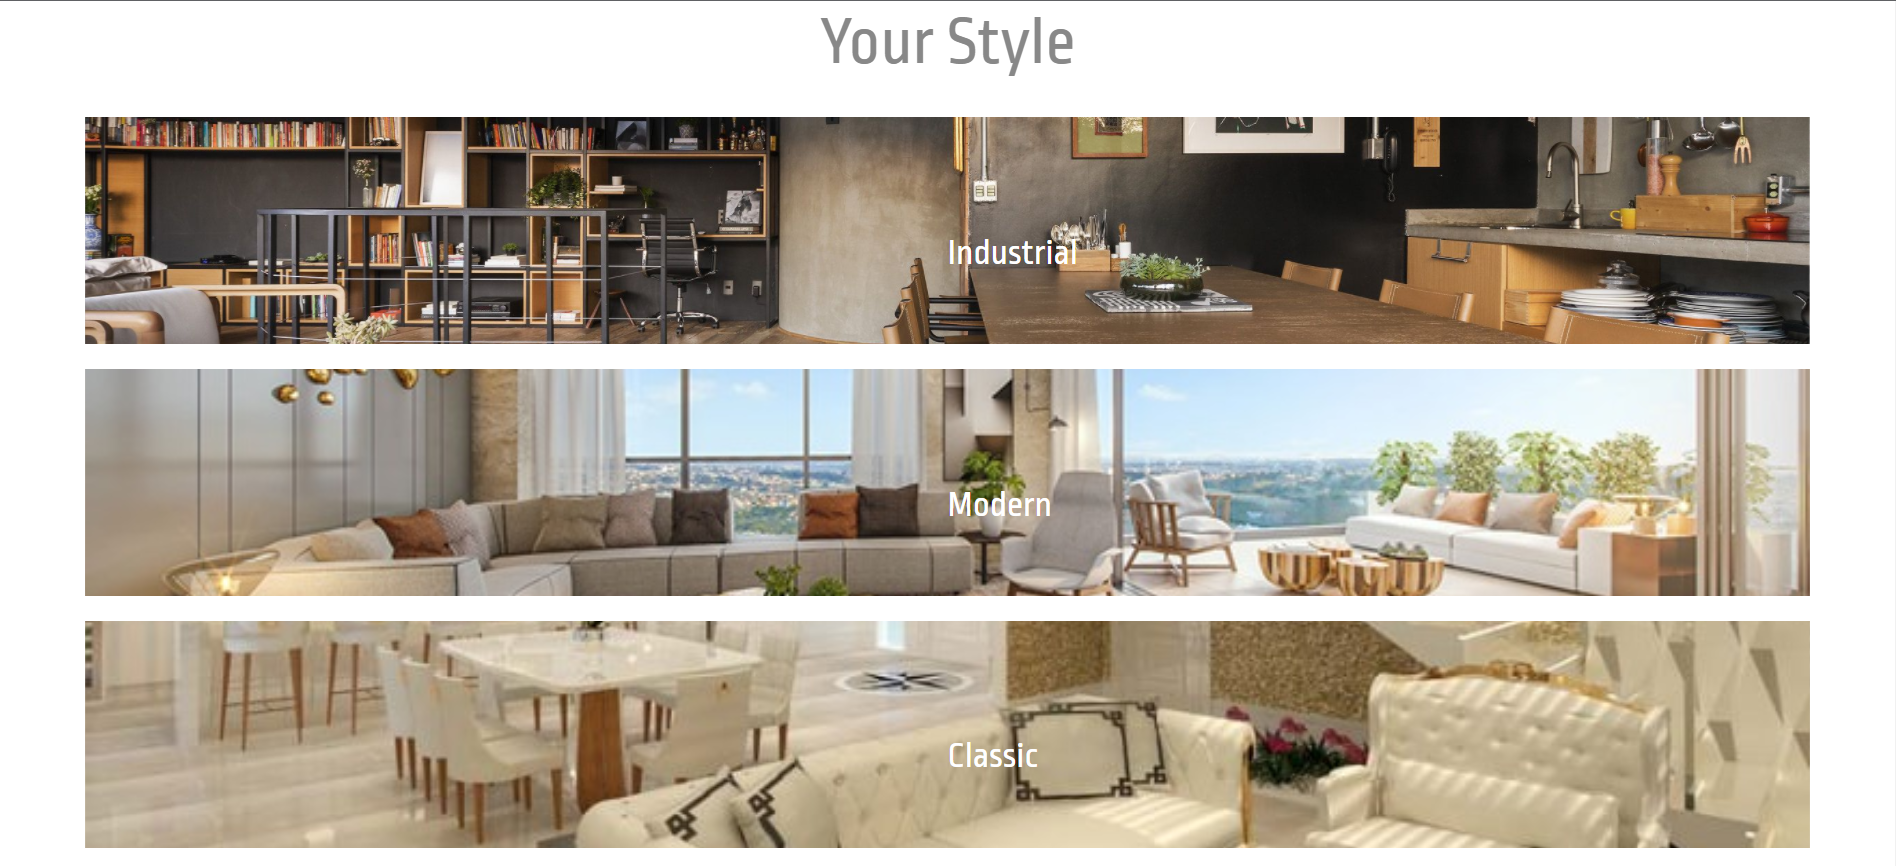
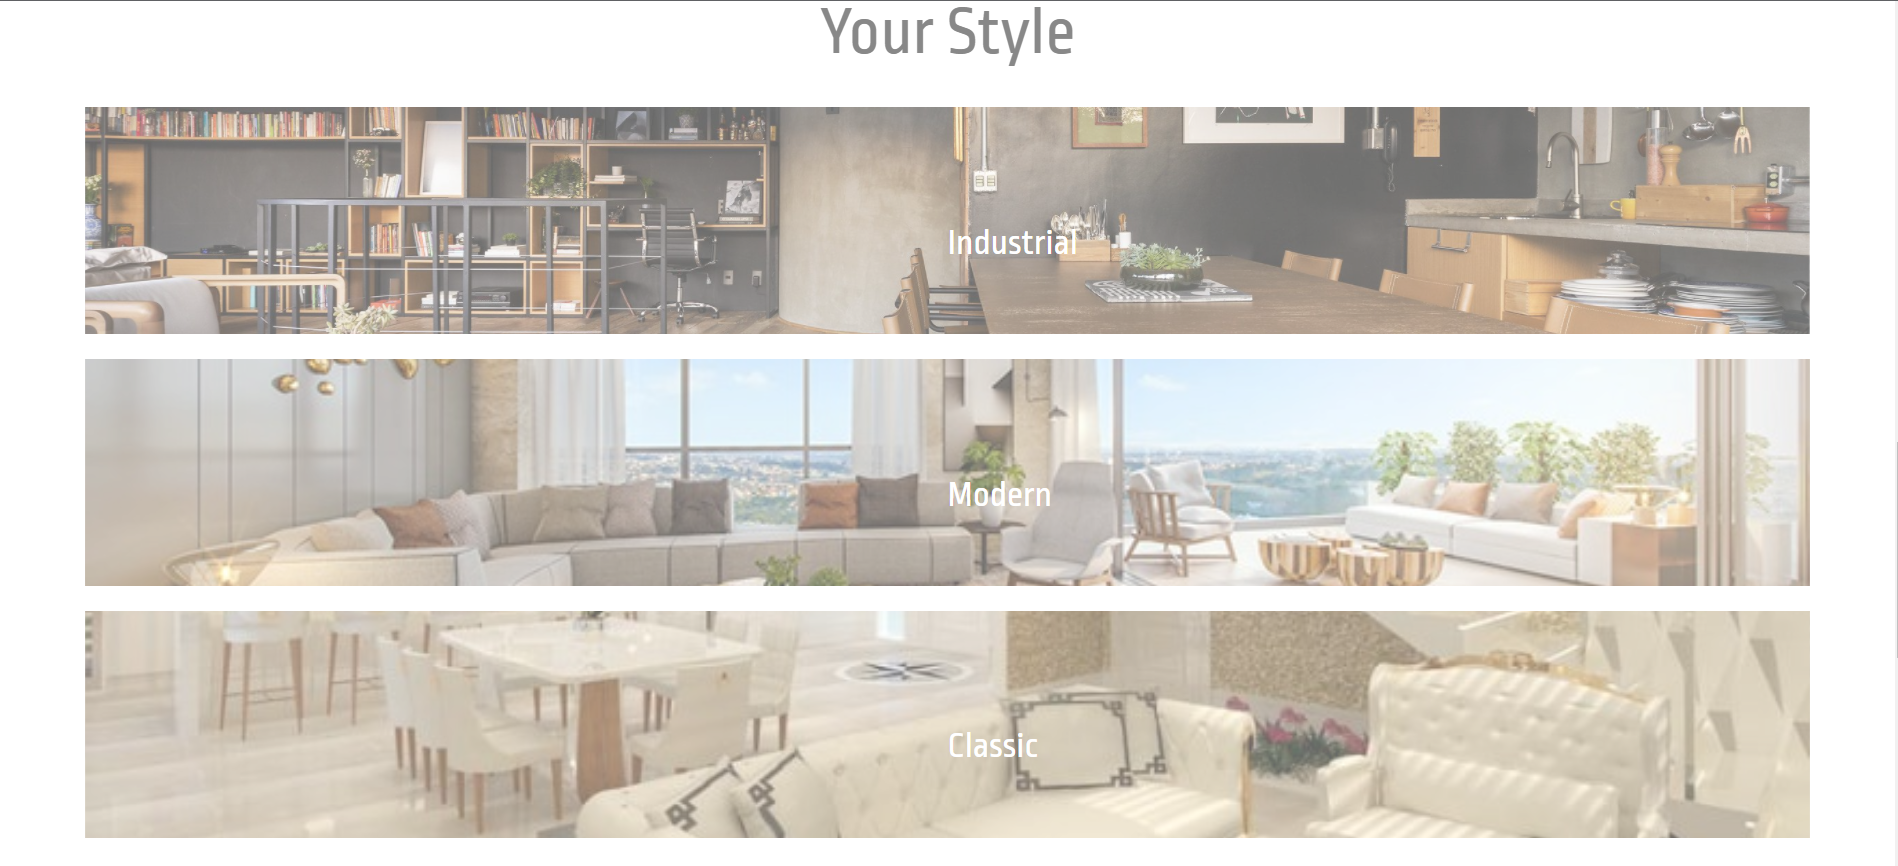
Versão Final Lovt

diff --git a/style.css b/style.css
@@ -26,8 +26,13 @@ h1{
 }
 
 .posLogo {
+  font-size: 1.2rem;
   margin-top: 0.7%;
   margin-left: 0.4%;
+}
+
+.loft {
+  margin-top: 0;
 }
 
 h2 {
@@ -40,6 +45,7 @@ h2 {
 
 .image0 {
   margin-left: 86%;
+  cursor: pointer;
 }
 
 .image1 {
@@ -47,6 +53,48 @@ h2 {
   margin-top: 2%;
   margin-bottom: 4%;
   width: 91%;
+  position: relative;
+}
+
+.EllipseLeft {
+  position: absolute;
+  color: white;
+  text-align: center;
+  width: 6.2%;
+  margin-top: -26.8%;
+  margin-left: 5.9%;
+  cursor: pointer;
+}
+
+.EllipseRight {
+  position: absolute;
+  color: white;
+  text-align: center;
+  width: 6.2%;
+  margin-top: -26.8%;
+  margin-left: 87%;
+  cursor: pointer;
+}
+
+.LeftArrow img {
+  position: absolute;
+  color: white;
+  text-align: center;
+  width: 1.7%;
+  margin-top: -25.5%;
+  margin-left: 7.7%;
+  cursor: pointer;
+
+}
+
+.RightArrow img {
+  position: absolute;
+  color: white;
+  text-align: center;
+  width: 1.7%;
+  margin-top: -25.5%;
+  margin-left: 89%;
+  cursor: pointer;
 }
 
 .caixas {
@@ -87,7 +135,7 @@ h2 {
   height: 20%;
   font-size: 190% ;
   margin-right: 10%;
-  border-radius: 20.5px;
+  border-radius: 20.5vh;
 }
 
 .texto3 {
@@ -131,7 +179,7 @@ h2 {
   height: 20%;
   font-size: 190% ;
   margin-right: 10%;
-  border-radius: 20.5px;
+  border-radius: 20.5vh;
 }
 
 .texto6 {
@@ -143,7 +191,7 @@ h2 {
 }
 
 .texto7 {
-  margin-top: 5%;
+  margin-top: 9%;
   color: #888888;
   text-align: center;
   font-size: 280%;
@@ -170,11 +218,23 @@ h2 {
 }
 
 .texto8 {
-  font-size: 150%;
+  font-size: 300%;
   margin-right: 10%;
   position: absolute;
   top: 50%;
-  left: 50%;
+  left: 43%;
+}
+
+.industrialImage {
+  filter: opacity(60%);
+}
+
+.modernImage {
+  filter: opacity(60%);
+}
+
+.classicImage {
+  filter: opacity(60%);
 }
 
 .container2 {
@@ -191,11 +251,11 @@ h2 {
 }
 
 .texto9 {
-  font-size: 150%;
+  font-size: 300%;
   margin-right: 10%;
   position: absolute;
   top: 50%;
-  left: 50%;
+  left: 45%;
 }
 
 .container3 {
@@ -212,11 +272,11 @@ h2 {
 }
 
 .texto10 {
-  font-size: 150%;
+  font-size: 300%;
   margin-right: 10%;
   position: absolute;
   top: 50%;
-  left: 50%;
+  left: 46%;
 }
 
 .caixa3 {
@@ -263,17 +323,26 @@ h2 {
   margin-top: 12%;
 }
 
+.socialMedias img {
+  width: 6vh;
+}
+
 .socialIcons {
   display: flex;
 }
 
 .InstagramIcon {
-  margin-right: 17%;
+  margin-top: 4%;
+  margin-right: 9.5%;
 }
 
 .FacebookIcon {
-  margin-right: 17%;
+  margin-top: 4%;
+  margin-right: 9.5%;
 }
 
+.WhatsappIcon {
+  margin-top: 4%;
+}
 
 

diff --git a/index.html b/index.html
@@ -5,7 +5,7 @@
     <meta http-equiv="X-UA-Compatible" content="IE=edge">
     <meta name="viewport" content="width=device-width, initial-scale=1.0">
     <link rel="stylesheet" href="style.css">
-    <title>Document</title>
+    <title>Lovt</title>
 </head>
 <body>
     <header>
@@ -13,14 +13,31 @@
                 <h1>LOVT</h1>
             <div class="posLogo">
                 <h2>You Love,</h2>
-                <h2>your loft</h2>
+                <h2 class="loft">your loft</h2>
             </div>
             <img class="image0" src="Images/Vector.svg" alt="">
             </div>
     </header>
     <main>
-        <img class="image1" src="Images/Rectangle1.svg" alt="Cozinha">
+        <div>
+            <img class="image1" src="Images/Rectangle1.svg" alt="Cozinha">
 
+                <div class="botaoDireito">
+                    <img src="Images/4-Ellipse.svg" alt="buttom" class="EllipseRight">
+                </div>
+
+                <div class="botaoEsquerdo">
+                    <img src="Images/4-Ellipse.svg" alt="buttom" class="EllipseLeft">
+                </div>
+
+                <div class="LeftArrow">
+                    <img src="Images/5-LeftArrow.svg" alt="LeftArrow">
+                </div>
+                <div class="RightArrow">
+                    <img src="Images/6-RightArrow.svg" alt="RightArrow">
+                </div>
+
+        </div>
         <div class="caixas">
 
             <div class="caixa1">
@@ -46,19 +63,19 @@
 
         <section class="container1">
 
-            <img src="Images/Rectangle4.svg" alt="Industrial">
+            <img class="industrialImage" src="Images/Rectangle4.svg" alt="Industrial">
             <div class="texto8">Industrial</div>
         </section>
 
         <section class="container2">
 
-            <img src="Images/Rectangle5.svg" alt="Modern">
+            <img class="modernImage" src="Images/Rectangle5.svg" alt="Modern">
             <div class="texto9">Modern</div>
         </section>
 
         <section class="container3">
 
-            <img src="Images/Rectangle6.svg" alt="Classic">
+            <img class="classicImage" src="Images/Rectangle6.svg" alt="Classic">
             <div class="texto10">Classic</div>
         </section>
     </main>
